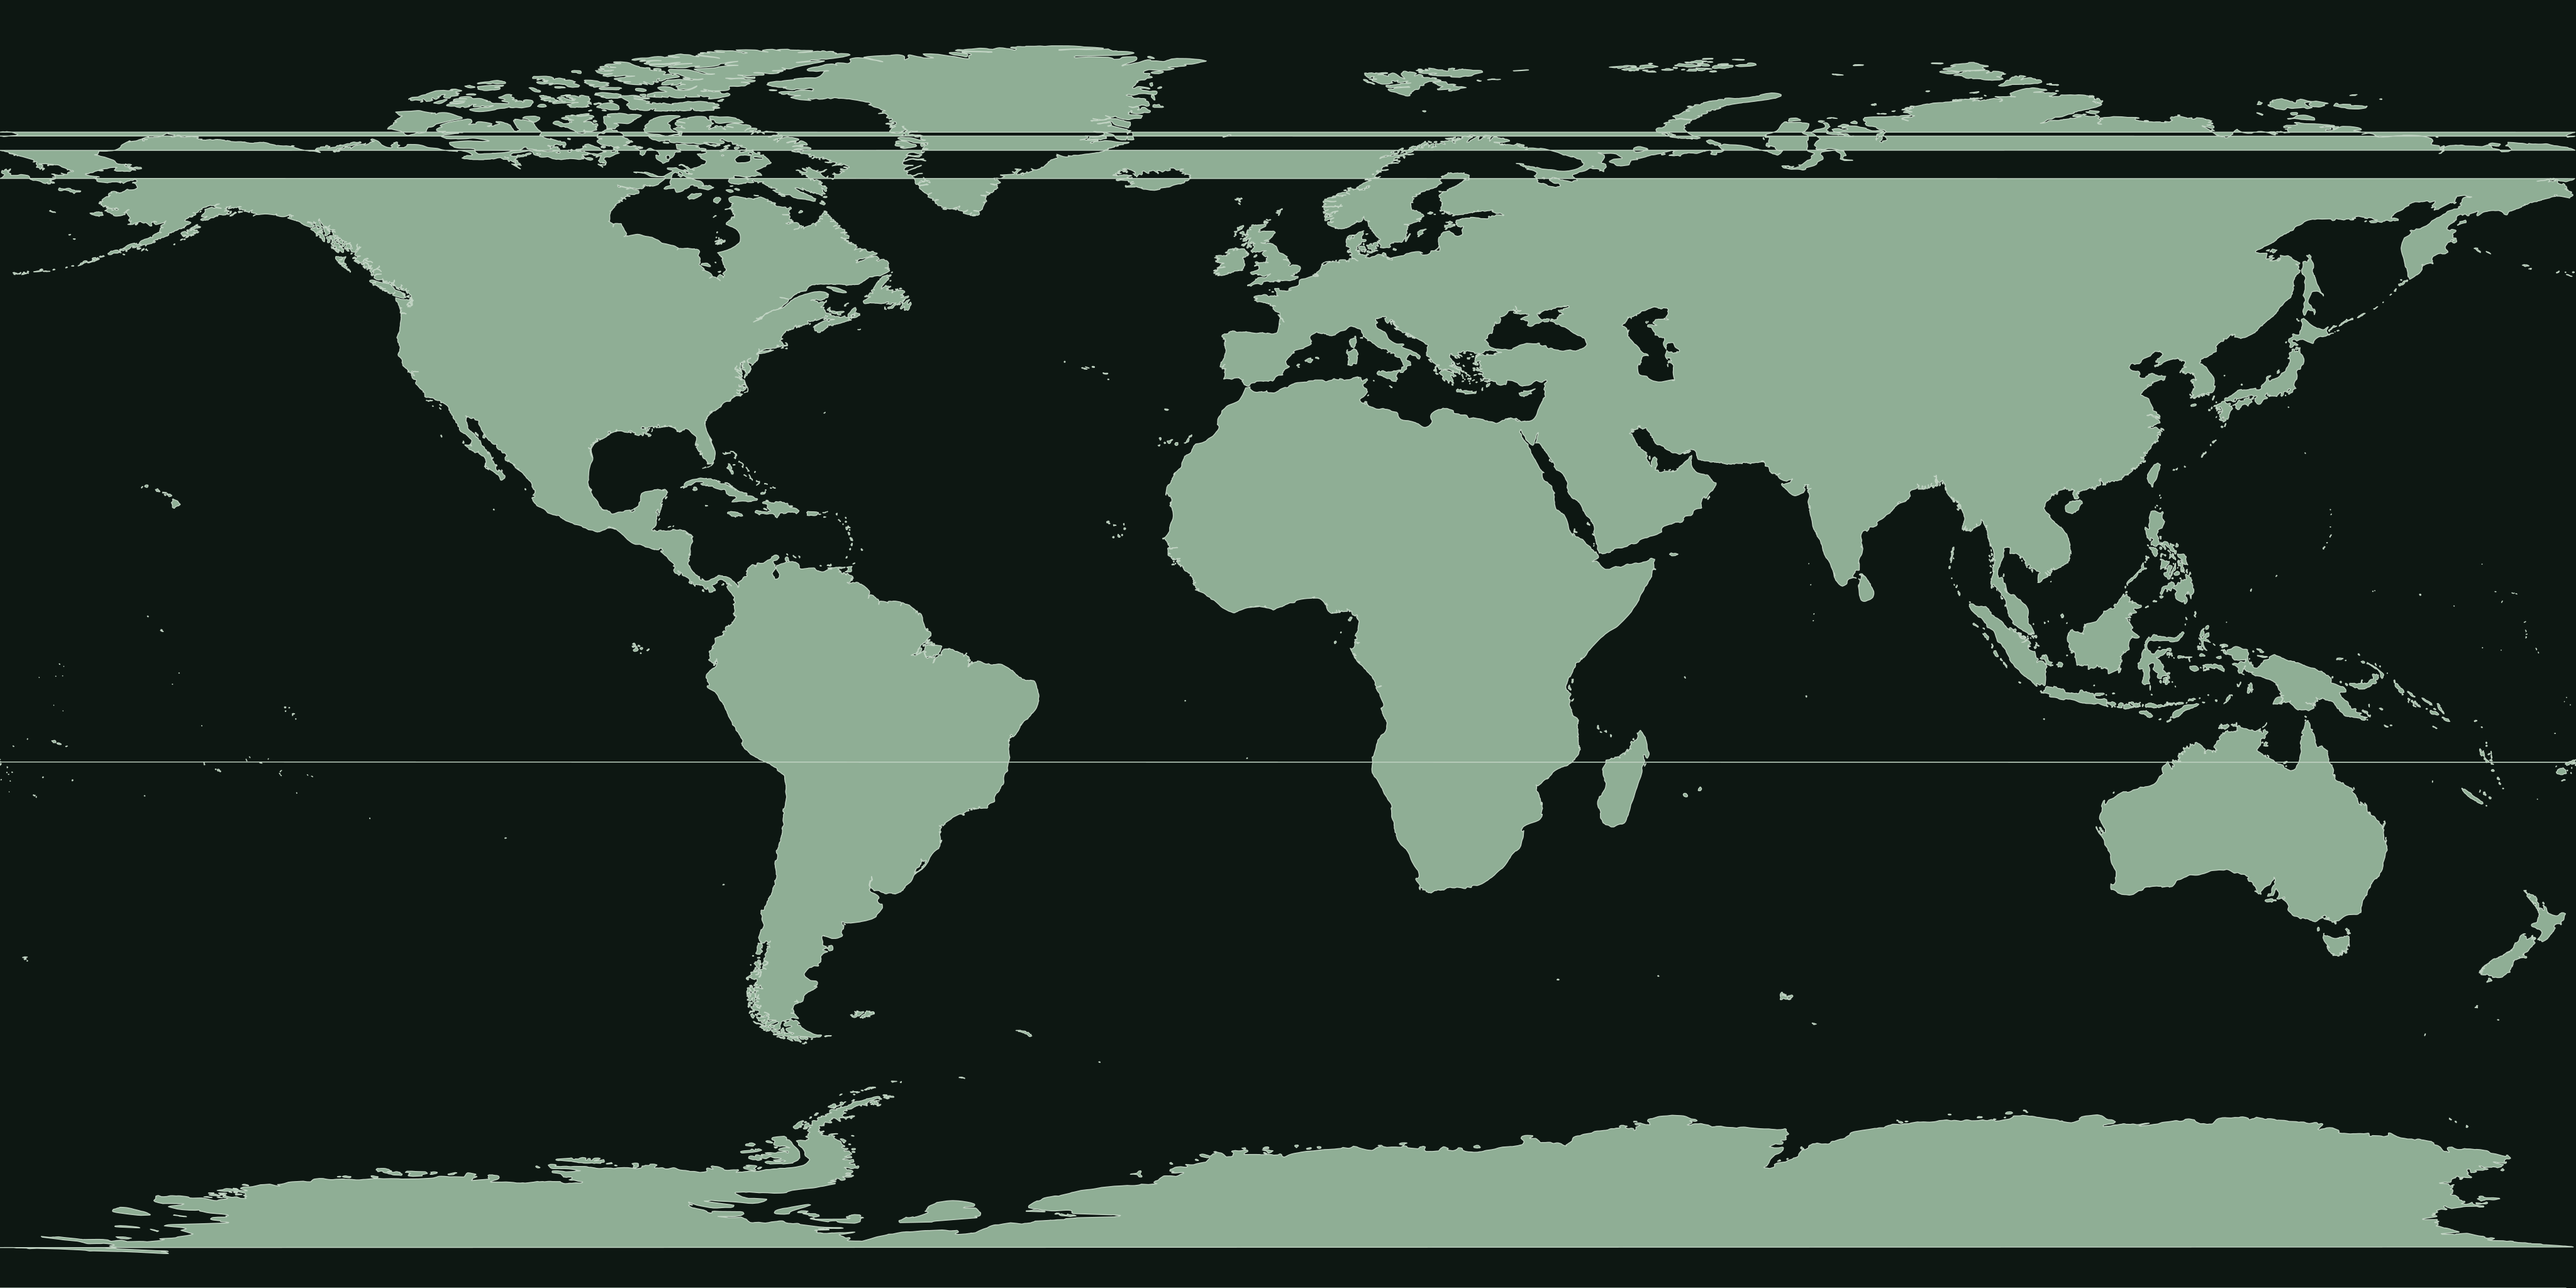
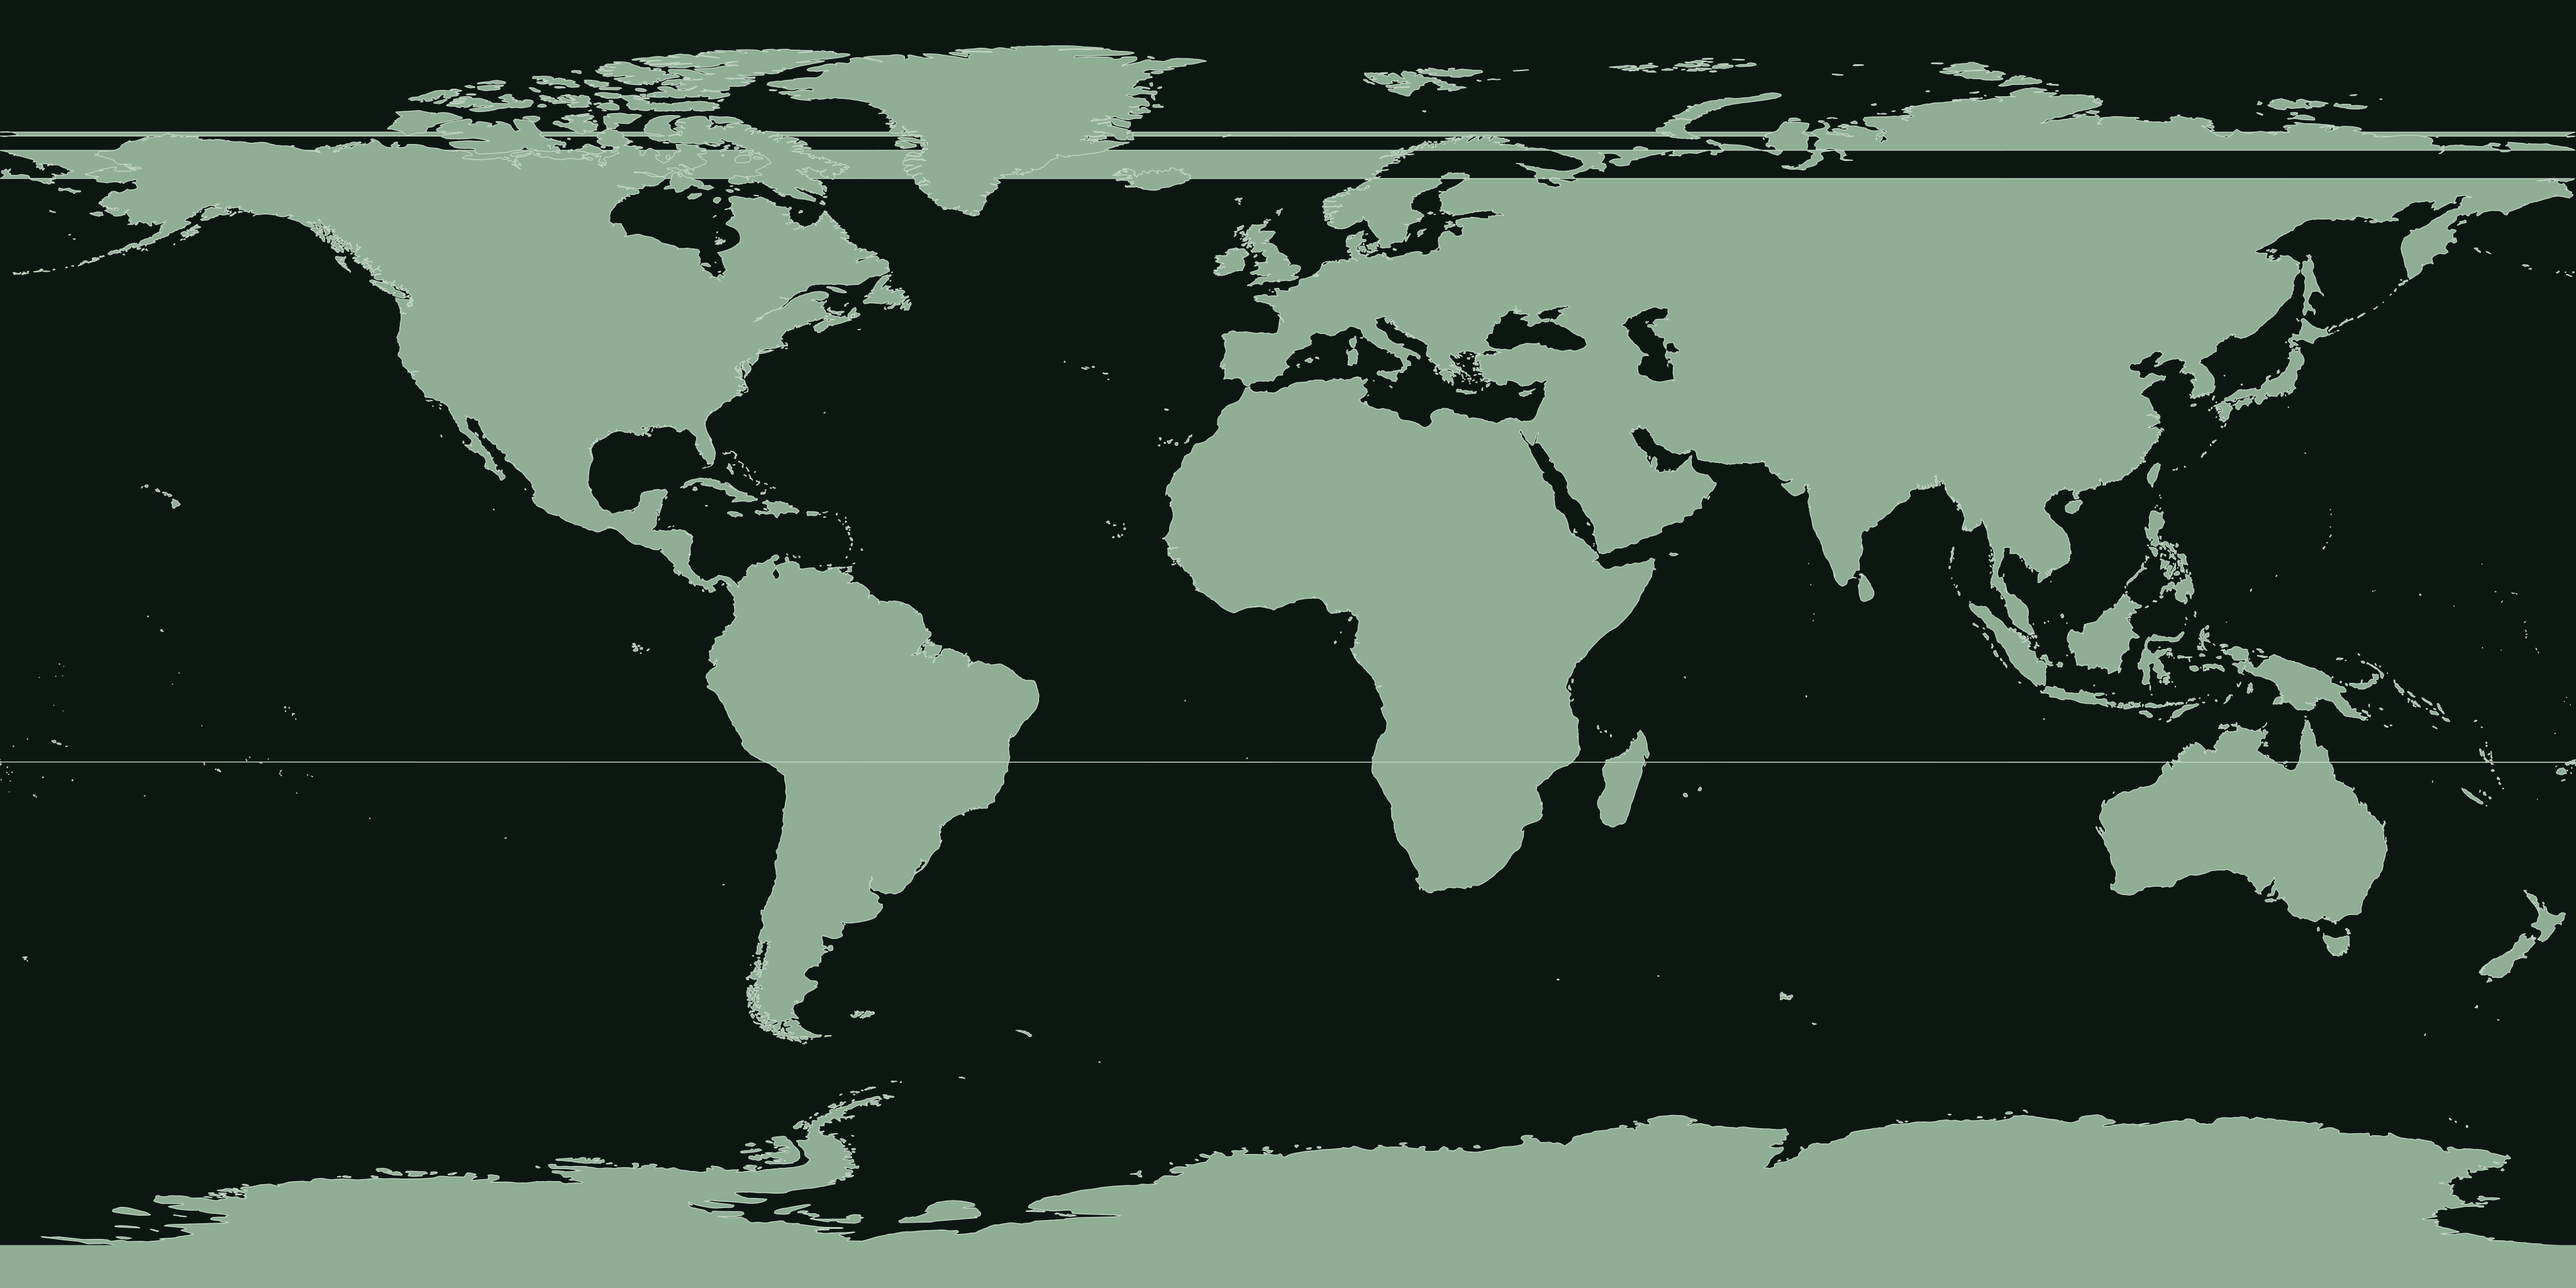
Fill the south pole, rework the board section, drop the globe caption
South pole
- Antarctica was rendering with a hole through the middle: every ring was
  merged into one path with fill-rule evenodd, and Antarctica's outline
  wraps the full width of the projection and overlaps itself near the pole,
  so evenodd cancelled it out. Now one path per polygon with nonzero
  winding, which also keeps lakes reading as holes.
- The innermost cap stays unfilled whichever way it is wound, because the
  outline runs to the pole and back along the projection's bottom edge, so
  it is painted solid below -84. There is no open ocean south of that.
- Verified: every longitude is land from -84 to the pole, the north pole is
  still ocean, and the continents are unchanged.

Board section (home)
- Was a dark field directly beneath the dark globe section, so the two read
  as one undifferentiated slab. It is now light, and the dark menu board
  belongs to the /board page alone.
- Retitled "Six places to start" — shorter, and honest about the board
  being a starting point rather than a menu.
- Two columns, numerals hanging in the margin, and each description sits
  under its own name instead of in a distant third column.

Globe caption moved outside the square so it clears the globe.

diff --git a/app/(site)/page.tsx b/app/(site)/page.tsx
@@ -98,49 +98,54 @@ export default function HomePage() {
       <JourneySection />
 
       {/* ── The board ────────────────────────────────────────── */}
-      <section className="bg-board text-chalk">
-        <div className="mx-auto max-w-[1180px] px-6 py-20 sm:py-24">
-          <div className="flex flex-wrap items-end justify-between gap-6">
-            <div>
-              <p className="text-[0.7rem] uppercase tracking-[0.2em] text-chalk/50">
-                The board
-              </p>
-              <h2 className="mt-4 max-w-2xl font-display text-[2.5rem] leading-[1.02] tracking-tight sm:text-[3.25rem]">
-                Order by number, or just describe the person.
-              </h2>
-            </div>
-            <Link
-              href="/board"
-              className="border-b border-chalk/30 pb-1 text-[0.7rem] uppercase tracking-[0.16em] text-chalk/70 transition-colors hover:border-chalk hover:text-chalk"
-            >
-              The whole board
-            </Link>
+      {/* Light on purpose: the globe section above it is already a dark
+          field, and two in a row read as one undifferentiated slab. The
+          dedicated /board page is where the dark menu board lives. */}
+      <section className="mx-auto max-w-[1180px] px-6 py-20 sm:py-24">
+        <div className="flex flex-wrap items-end justify-between gap-6 border-b border-ink/15 pb-8">
+          <div>
+            <p className="text-[0.7rem] uppercase tracking-[0.16em] text-muted">
+              The board
+            </p>
+            <h2 className="mt-4 font-display text-[2.5rem] leading-[1.0] tracking-[-0.02em] sm:text-[3.25rem]">
+              Six places to start.
+            </h2>
           </div>
+          <Link
+            href="/board"
+            className="border-b border-forest/40 pb-0.5 text-[0.7rem] uppercase tracking-[0.16em] text-forest transition-colors hover:border-forest"
+          >
+            The whole board
+          </Link>
+        </div>
 
-          <ol className="mt-14">
-            {DEFAULT_BOARD.slice(0, 6).map((item) => (
-              <li
-                key={item.number}
-                className="grid grid-cols-[3.25rem_1fr] items-baseline gap-x-5 border-t border-chalk/15 py-6 sm:grid-cols-[5.5rem_minmax(0,18rem)_1fr] sm:gap-x-8"
-              >
-                <span className="numeral text-[2.5rem] text-chalk/40 sm:text-[3.5rem]">
-                  {item.number}
-                </span>
-                <h3 className="font-display text-[1.6rem] leading-tight sm:text-[2rem]">
+        {/* Numeral hangs in the margin; the description sits directly under
+            its own name instead of in a far-off third column. */}
+        <ol className="grid sm:grid-cols-2 sm:gap-x-12">
+          {DEFAULT_BOARD.slice(0, 6).map((item) => (
+            <li
+              key={item.number}
+              className="grid grid-cols-[2.75rem_1fr] items-baseline gap-x-4 border-b border-ink/10 py-7 sm:grid-cols-[3.5rem_1fr] sm:gap-x-5"
+            >
+              <span className="numeral text-[2rem] text-moss sm:text-[2.5rem]">
+                {item.number}
+              </span>
+              <div>
+                <h3 className="font-display text-[1.5rem] leading-tight sm:text-[1.75rem]">
                   {item.name}
                 </h3>
-                <p className="col-start-2 mt-2 max-w-xl text-[0.95rem] leading-relaxed text-chalk/60 sm:col-start-3 sm:mt-0">
+                <p className="mt-1.5 max-w-md text-[0.95rem] leading-relaxed text-ink-soft">
                   {item.description}
                 </p>
-              </li>
-            ))}
-          </ol>
+              </div>
+            </li>
+          ))}
+        </ol>
 
-          <p className="mt-10 max-w-xl text-[0.85rem] leading-relaxed text-chalk/50">
-            Prices depend on the day, the stems, and the size. Call and Vince will
-            tell you exactly what it runs.
-          </p>
-        </div>
+        <p className="mt-8 max-w-xl text-[0.9rem] leading-relaxed text-muted">
+          Prices depend on the day, the stems, and the size. Call and Vince will
+          tell you exactly what it runs.
+        </p>
       </section>
 
       {/* ── How it goes ──────────────────────────────────────── */}

diff --git a/components/globe/flower-globe.tsx b/components/globe/flower-globe.tsx
@@ -48,11 +48,12 @@ export function FlowerGlobe() {
               />
             </Suspense>
           </Canvas>
-
-          <p className="pointer-events-none absolute inset-x-0 bottom-0 text-center text-[0.65rem] uppercase tracking-[0.18em] text-chalk/50">
-            Drag to turn · Tap an origin
-          </p>
         </div>
+
+        {/* Outside the square, so it clears the globe rather than sitting on it. */}
+        <p className="mt-6 text-center text-[0.65rem] uppercase tracking-[0.18em] text-chalk/50">
+          Drag to turn · Tap an origin
+        </p>
       </div>
 
       <div className="lg:col-span-4 lg:col-start-9">
